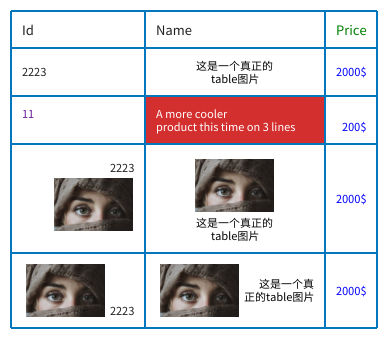
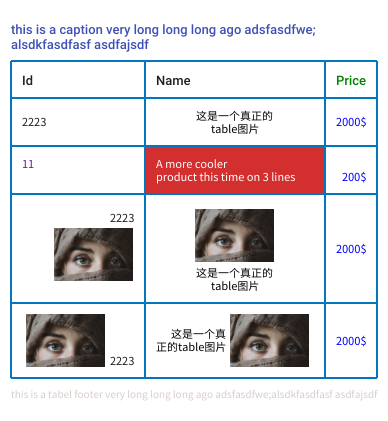
feat: support caption, table footer

Changed region(s): [[0.0, 0.177, 0.9897, 0.9735], [0.0, 0.0295, 0.9897, 0.1475], [0.866, 0.5605, 0.9588, 0.6195]]

diff --git a/table.go b/table.go
@@ -173,8 +173,8 @@ func (c Cell) Size() image.Point {
 		maxWidth = imgW
 	}
 	x := maxWidth + c.Style.BorderSize().X
-	height := stringHeight(c.Style.Font.Size, c.Style.LineHeight)
-	textHeight := len(wrapedTexts) * height
+	lineHeight := stringHeight(c.Style.Font.Size, c.Style.LineHeight)
+	textHeight := len(wrapedTexts) * lineHeight
 	if textHeight < imgH {
 		textHeight = imgH
 	}
@@ -223,15 +223,19 @@ type Row struct {
 	Style *Style `json:"style,omitempty"`
 }
 
-// Rows rows
-type Rows struct {
-	colsWidth  []int
-	rowsHeight []int
-	rows       []Row
+// Table table struct
+type Table struct {
+	colsWidth   []int
+	rowsHeight  []int
+	rows        []Row
+	caption     *Cell
+	footer      *Cell
+	captionSize image.Point
+	footerSize  image.Point
 }
 
-// NewRows create Rows instance
-func NewRows(ti *TableImage, rows []Row) (*Rows, error) {
+// NewTable create Table instance
+func NewTable(ti *TableImage, rows []Row, caption *Cell, footer *Cell) (*Table, error) {
 	var maxCols int
 	for _, row := range rows {
 		cols := len(row.Cells)
@@ -268,15 +272,55 @@ func NewRows(ti *TableImage, rows []Row) (*Rows, error) {
 		row.Cells = rowCells
 		updatedRows = append(updatedRows, row)
 	}
-	return &Rows{
+	table := &Table{
+		caption:    caption,
+		footer:     footer,
 		rows:       updatedRows,
 		rowsHeight: heights,
 		colsWidth:  cols,
-	}, nil
+	}
+	if caption != nil {
+		if caption.Style == nil {
+			caption.Style = DefaultCaptionStyle()
+			caption.Style.LoadFont(ti.fontCache)
+		} else {
+			caption.Style.Inherit(DefaultCaptionStyle(), ti.fontCache)
+		}
+		if caption.Style.MaxWidth == 0 || caption.Style.MaxWidth > table.Size().X {
+			caption.Style.MaxWidth = table.Size().X - caption.Style.BorderPadding().Size().X
+		}
+		table.captionSize = caption.Size()
+	}
+	if footer != nil {
+		if footer.Style == nil {
+			footer.Style = DefaultCaptionStyle()
+			footer.Style.LoadFont(ti.fontCache)
+		} else {
+			footer.Style.Inherit(DefaultCaptionStyle(), ti.fontCache)
+		}
+		if footer.Style.MaxWidth == 0 || footer.Style.MaxWidth > table.Size().X {
+			footer.Style.MaxWidth = table.Size().X - footer.Style.BorderPadding().Size().X
+		}
+		table.footerSize = footer.Size()
+	}
+	return table, nil
 }
 
 // Size get bound size
-func (r Rows) Size() image.Point {
+func (r Table) Size() image.Point {
+	rowsSize := r.RowsSize()
+	if rowsSize.X < r.captionSize.X {
+		rowsSize.X = r.captionSize.X
+	}
+	if rowsSize.X < r.footerSize.X {
+		rowsSize.X = r.footerSize.X
+	}
+	rowsSize.Y += r.captionSize.Y + r.footerSize.Y
+	return rowsSize
+}
+
+// RowsSize get rows size
+func (r Table) RowsSize() image.Point {
 	var (
 		width  int
 		height int
@@ -290,8 +334,31 @@ func (r Rows) Size() image.Point {
 	return image.Pt(width, height)
 }
 
+// RowsStartPoint table rows start point
+func (r Table) RowsStartPoint() image.Point {
+	return r.captionSize
+}
+
+// DrawCaption draw table caption
+func (r Table) DrawCaption(img *image.RGBA, pt image.Point) {
+	if r.caption == nil {
+		return
+	}
+	bounds := image.Rect(pt.X, pt.Y, pt.X+r.captionSize.X, pt.Y+r.captionSize.Y)
+	r.caption.Draw(img, bounds)
+}
+
+// DrawFooter draw table footer
+func (r Table) DrawFooter(img *image.RGBA, pt image.Point) {
+	if r.footer == nil {
+		return
+	}
+	bounds := image.Rect(pt.X, pt.Y, pt.X+r.footerSize.X, pt.Y+r.footerSize.Y)
+	r.footer.Draw(img, bounds)
+}
+
 // CellPoint pos of a cell
-func (r Rows) CellBounds(rowIdx int, cellIdx int) image.Rectangle {
+func (r Table) CellBounds(rowIdx int, cellIdx int) image.Rectangle {
 	var (
 		x int
 		y int
@@ -314,7 +381,7 @@ func (r Rows) CellBounds(rowIdx int, cellIdx int) image.Rectangle {
 }
 
 // Rows get rows
-func (r Rows) Rows() []Row {
+func (r Table) Rows() []Row {
 	return r.rows
 }
 

diff --git a/tableimage.go b/tableimage.go
@@ -39,17 +39,17 @@ func New(options ...Option) (*TableImage, error) {
 }
 
 // Draw draw table image
-func (ti *TableImage) Draw(rows []Row) (*image.RGBA, error) {
-	rowsObj, err := NewRows(ti, rows)
+func (ti *TableImage) Draw(rows []Row, caption *Cell, footer *Cell) (*image.RGBA, error) {
+	table, err := NewTable(ti, rows, caption, footer)
 	if err != nil {
 		return nil, err
 	}
-	bounds := ti.Size(rowsObj)
+	bounds := ti.Size(table)
 	img := image.NewRGBA(image.Rect(0, 0, bounds.X, bounds.Y))
 	if ti.style != nil && ti.style.BgColor != "" {
 		draw.Draw(img, img.Bounds(), &image.Uniform{ColorFromHex(ti.style.BgColor)}, image.ZP, draw.Src)
 	}
-	ti.draw(img, rowsObj)
+	ti.draw(img, table)
 	return img, nil
 }
 
@@ -74,8 +74,8 @@ func Save(filepath string, img *image.RGBA, imageType ImageType) error {
 }
 
 // Size get tableimage width/height
-func (ti *TableImage) Size(rows *Rows) image.Point {
-	rowsBounds := rows.Size()
+func (ti *TableImage) Size(table *Table) image.Point {
+	rowsBounds := table.Size()
 	if ti.style == nil {
 		return rowsBounds
 	}
@@ -91,23 +91,28 @@ func (ti *TableImage) BorderSize() image.Point {
 	return border
 }
 
-// RowsPoint rows start point
-func (ti *TableImage) RowsStartPoint() image.Point {
+func (ti *TableImage) innerStartPoint() image.Point {
 	if ti.style == nil {
 		return image.ZP
 	}
 	return ti.style.InnerStart()
 }
 
-func (ti *TableImage) draw(img *image.RGBA, rows *Rows) {
-	rowsPt := ti.RowsStartPoint()
-	for rowIdx, row := range rows.Rows() {
+func (ti *TableImage) draw(img *image.RGBA, table *Table) {
+	startPoint := ti.innerStartPoint()
+	table.DrawCaption(img, startPoint)
+	rowsStartPoint := table.RowsStartPoint()
+	rowsPt := image.Pt(startPoint.X, startPoint.Y+rowsStartPoint.Y)
+	for rowIdx, row := range table.Rows() {
 		for cellIdx, cell := range row.Cells {
-			bounds := rows.CellBounds(rowIdx, cellIdx)
+			bounds := table.CellBounds(rowIdx, cellIdx)
 			bounds = bounds.Add(rowsPt)
 			cell.Draw(img, bounds)
 		}
 	}
+	rowsSize := table.RowsSize()
+	footerPt := image.Pt(startPoint.X, rowsPt.Y+rowsSize.Y)
+	table.DrawFooter(img, footerPt)
 }
 
 // CacheImage cache image

diff --git a/style.go b/style.go
@@ -23,6 +23,36 @@ var DefaultStyle = func() *Style {
 	}
 }
 
+// DefaultCaptionStyle default caption style setting
+var DefaultCaptionStyle = func() *Style {
+	return &Style{
+		Color:      DefaultColor,
+		Border:     NoBorder(),
+		LineHeight: DefaultLineHeight,
+		Padding:    NewPaddingY(DefaultPadding),
+		Align:      LEFT,
+		VAlign:     TOP,
+		Font: &Font{
+			Size: DefaultFontSize,
+		},
+	}
+}
+
+// DefaultFooterStyle default table footer style setting
+var DefaultFooterStyle = func() *Style {
+	return &Style{
+		Color:      DefaultColor,
+		Border:     NoBorder(),
+		LineHeight: DefaultLineHeight,
+		Padding:    NewPaddingY(DefaultPadding),
+		Align:      RIGHT,
+		VAlign:     TOP,
+		Font: &Font{
+			Size: DefaultFontSize,
+		},
+	}
+}
+
 // DefaultLine default line setting
 var DefaultLine = func() Line {
 	return Line{
@@ -39,6 +69,11 @@ var DefaultBorder = func() *Border {
 		Bottom: DefaultLine(),
 		Left:   DefaultLine(),
 	}
+}
+
+// NoBorder no border setting
+var NoBorder = func() *Border {
+	return &Border{}
 }
 
 // Style for drawing
@@ -110,10 +145,10 @@ func (s *Style) Inherit(s1 *Style, cache draw2d.FontCache) error {
 			if s.Font.Size < 1e-15 {
 				s.Font.Size = s1.Font.Size
 			}
-			if s.Font.Data != nil {
+			if s.Font.Data == nil {
 				s.Font.Data = s1.Font.Data
 			}
-			if s.Font.Font != nil {
+			if s.Font.Font == nil {
 				s.Font.Font = s1.Font.Font
 			}
 		}
@@ -215,6 +250,7 @@ func (s Style) InnerBounds(bounds image.Rectangle) image.Rectangle {
 	}
 }
 
+// BorderPadding border padding
 func (s Style) BorderPadding() Padding {
 	padding := ZeroPadding
 	if s.Margin != nil {
@@ -232,9 +268,9 @@ func (s Style) BorderPadding() Padding {
 // Border border setting
 type Border struct {
 	Top    Line `json:"top,omitempty"`
-	Right  Line `json:"border,omitempty"`
-	Bottom Line `json:"border,omitempty"`
-	Left   Line `json:"border,omitempty"`
+	Right  Line `json:"right,omitempty"`
+	Bottom Line `json:"bottom,omitempty"`
+	Left   Line `json:"left,omitempty"`
 }
 
 // ChangeColor change border color

diff --git a/examples/main.go b/examples/main.go
@@ -20,6 +20,14 @@ func main() {
 			Style:  draw2d.FontStyleBold,
 		},
 	}
+	footerFont := &tableimage.Font{
+		Size: 10,
+		Data: &draw2d.FontData{
+			Name:   "NotoSansCJKsc",
+			Family: draw2d.FontFamilySans,
+			Style:  draw2d.FontStyleNormal,
+		},
+	}
 	headerStyle := &tableimage.Style{
 		Font: headerFont,
 	}
@@ -38,6 +46,23 @@ func main() {
 		log.Fatalln(err)
 		return
 	}
+
+	caption := &tableimage.Cell{
+		Text: "this is a caption very long long long ago adsfasdfwe;alsdkfasdfasf asdfajsdf",
+		Style: &tableimage.Style{
+			Color: "#3F51B5",
+			Font:  headerFont,
+		},
+	}
+
+	tfooter := &tableimage.Cell{
+		Text: "this is a tabel footer very long long long ago adsfasdfwe;alsdkfasdfasf asdfajsdf",
+		Style: &tableimage.Style{
+			Color: "#D7CCC8",
+			Font:  footerFont,
+		},
+	}
+
 	rows := []tableimage.Row{
 		{
 			Style: headerStyle,
@@ -178,7 +203,7 @@ func main() {
 			},
 		},
 	}
-	img, err := ti.Draw(rows)
+	img, err := ti.Draw(rows, caption, tfooter)
 	if err != nil {
 		log.Fatalln(err)
 		return

diff --git a/draw.go b/draw.go
@@ -11,6 +11,9 @@ import (
 )
 
 func drawText(img *image.RGBA, point image.Point, label string, color string, ft *truetype.Font, fontSize float64) {
+	if ft == nil {
+		return
+	}
 	fontCtx := newFreetypeContext()
 	fontCtx.SetFont(ft)
 	fontCtx.SetFontSize(fontSize)
@@ -57,6 +60,9 @@ func scaleImage(img image.Image, scale float64) *image.RGBA {
 // MeasureString returns the rendered width and height of the specified text
 // given the current font face.
 func stringWidth(s string, fontFace font.Face) float64 {
+	if fontFace == nil {
+		return 0
+	}
 	d := &font.Drawer{
 		Face: fontFace,
 	}
@@ -69,6 +75,9 @@ func stringHeight(fontSize float64, lineHeight float64) int {
 }
 
 func newFontFace(ft *truetype.Font, fontSize float64) font.Face {
+	if ft == nil {
+		return nil
+	}
 	return truetype.NewFace(ft, &truetype.Options{
 		Size: fontSize,
 	})

diff --git a/README.md b/README.md
@@ -16,6 +16,10 @@ Generates a table inside of a image based on the provided data
 - style inherit, could set style in cell, row, table level
 - support image in table
 
+### Example:
+
+![Example](examples/test.png "Example")
+
 ### Usage
 
 ```go
@@ -213,7 +217,3 @@ func main() {
 	tableimage.Write(f, img, tableimage.PNG)
 }
 ```
-
-### Outputs:
-
-![Example](examples/test.png "Example")
